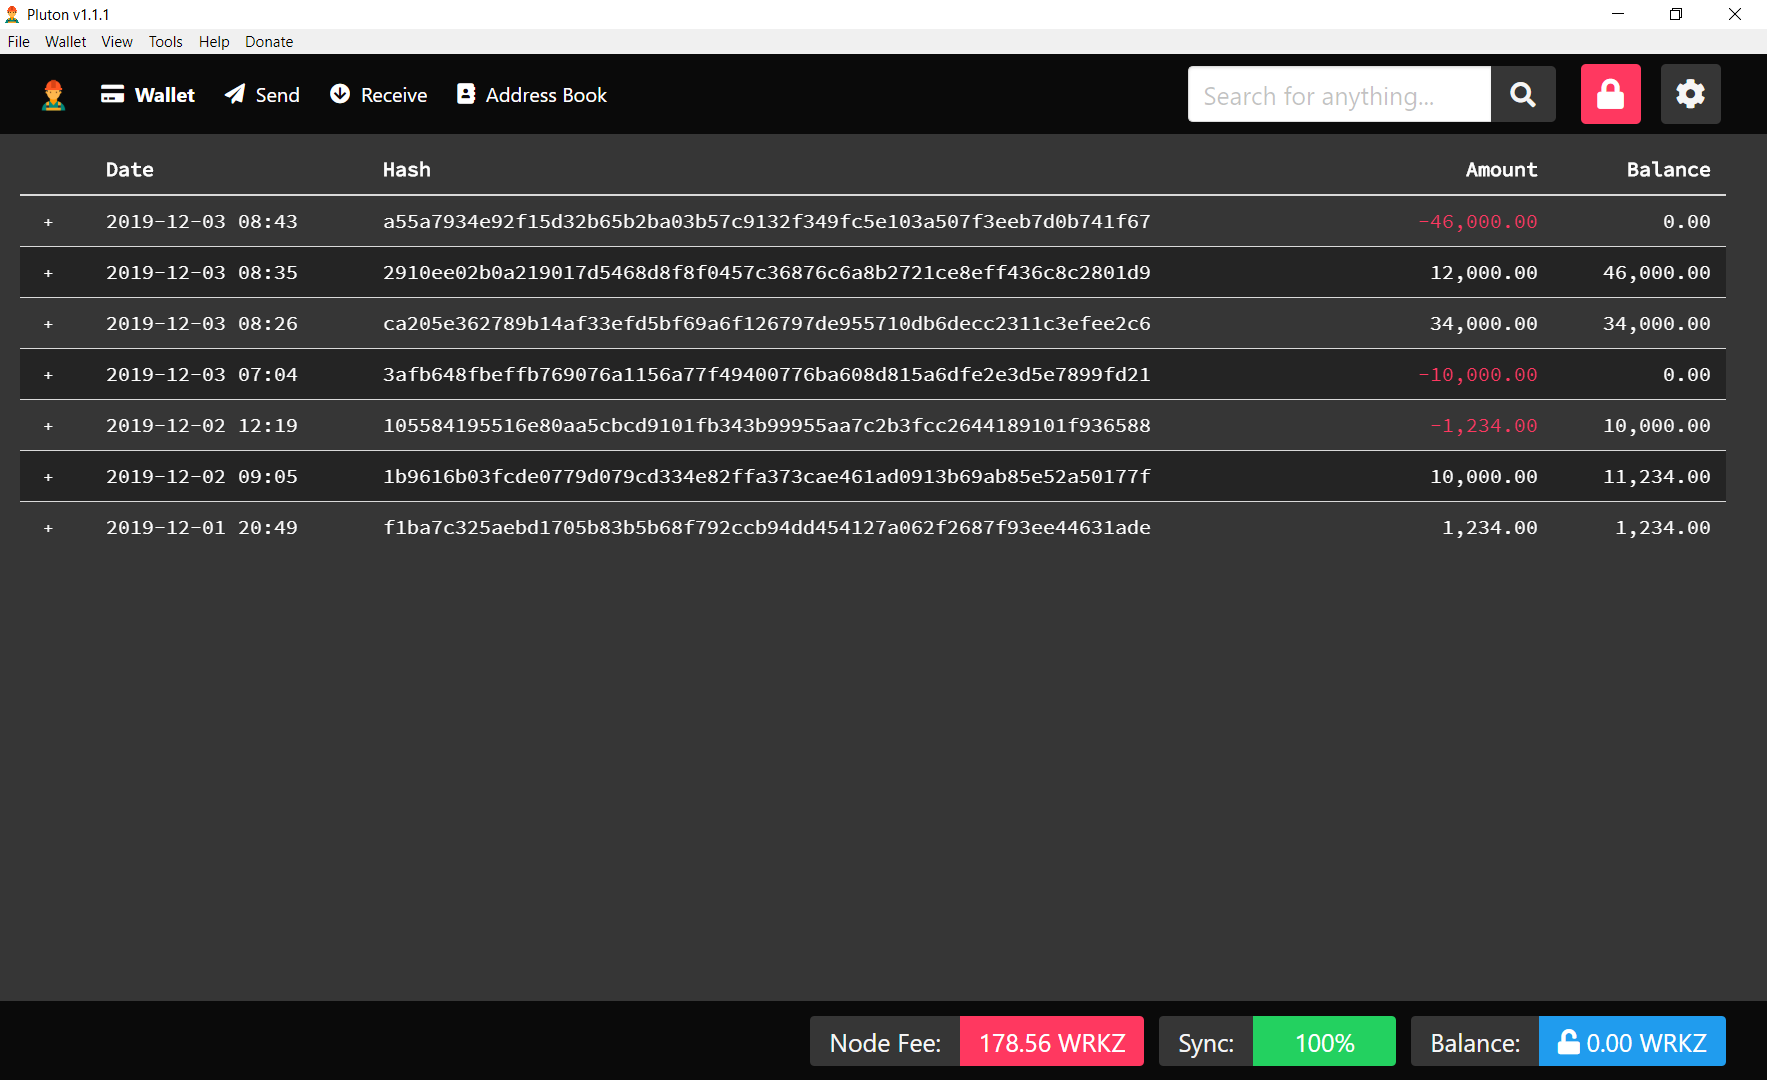
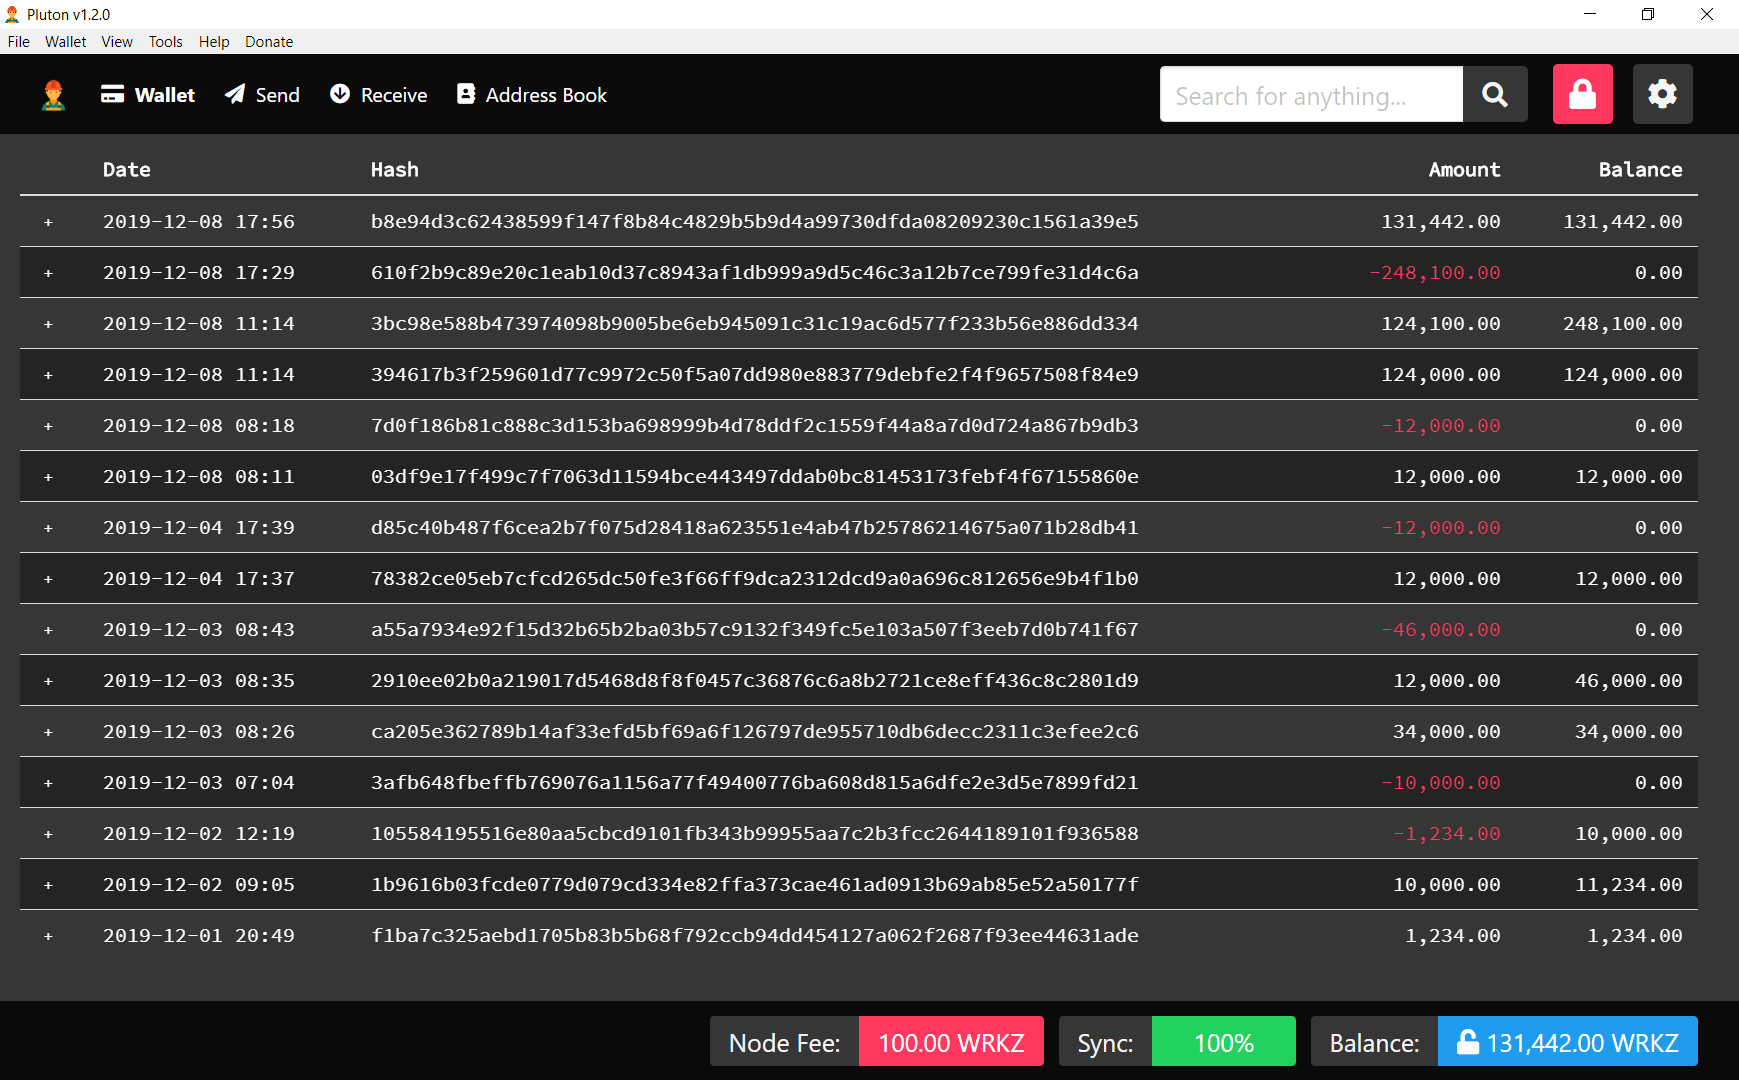
Update README & Screenshots (#5)
* Update matrix.yml

* update screenshots

* Update LIC text and Master Build Status

* Update README.md

diff --git a/README.md b/README.md
@@ -7,7 +7,7 @@
 
 ### Master Build Status
 
-[TODO]
+![Master Build Status](https://github.com/wrkzcoin/wrkz-wallet-pluton/workflows/Build%20Pluton/badge.svg?branch=master)
 
 ### Development Build Status
 
@@ -86,5 +86,6 @@ $ yarn package
 
 ## License
 
-© [ExtraHash](https://github.com/ExtraHash)
+© 2019, [ExtraHash](https://github.com/ExtraHash)
+© 2019, [WrkzCoin](https://github.com/wrkzcoin/wrkz-wallet-pluton)
 See included License file for more details.
